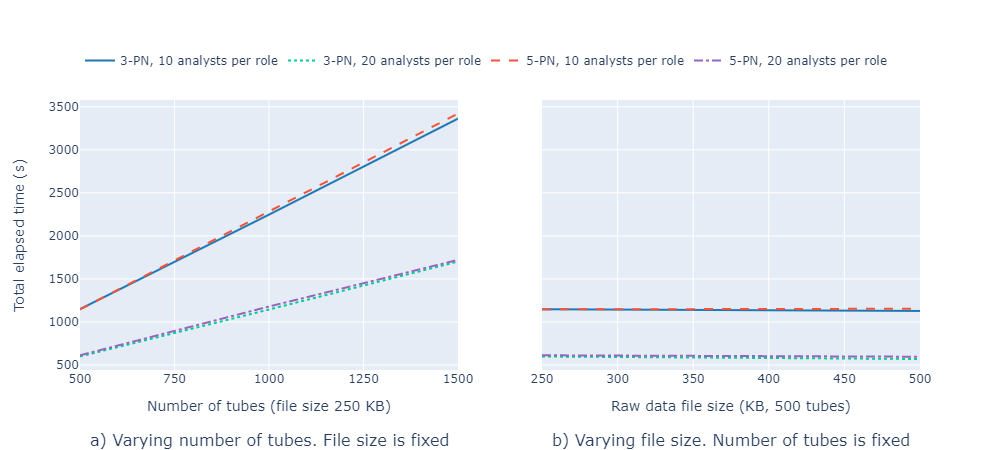
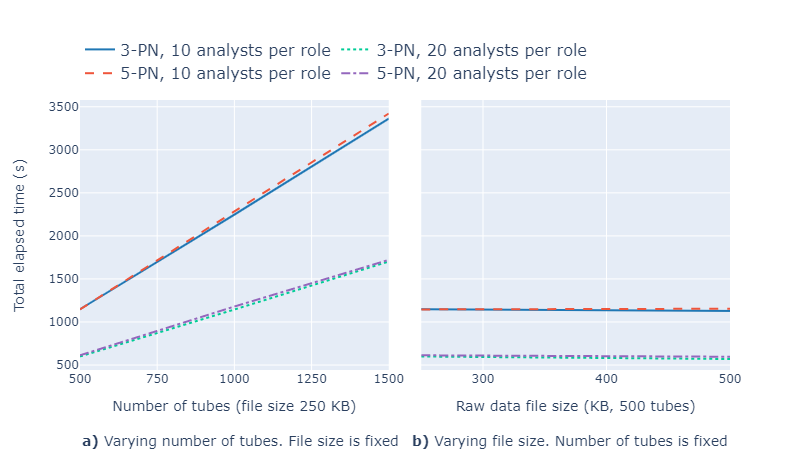
Article revision. Enhanced charts

diff --git a/code/charts3.py b/code/charts3.py
@@ -3,14 +3,15 @@ import plotly.graph_objs as go
 
 NUM_TUBES = [500, 1000, 1500]
 FILE_SIZES = [250, 500] #KB
-FONT = dict(size=16)
+FONT = dict(size=14)
+LEGEND_FONT=dict(size=16)
 BLUE_LINE = dict(color='#1f77b4') #royalblue
 RED_LINE = dict(color='#ef553b', dash='dash')
 GREEN_LINE=dict(color='#00cc96', dash='dot')
 PURPLE_LINE=dict(color='#9467bd', dash='dashdot')
 
 def totalAcquisition(threeOrgsFileSizeFixed, fiveOrgsFileSizeFixed, threeOrgsNumTubesFixed, fiveOrgsNumTubesFixed):
-    fig = make_subplots(rows=1, cols=2, shared_yaxes=True)
+    fig = make_subplots(rows=1, cols=2, shared_yaxes=True, horizontal_spacing= 0.05)
 
     fig.add_trace(go.Scatter(x=NUM_TUBES, y=threeOrgsFileSizeFixed, mode="lines", name="3-PN", line=BLUE_LINE), row=1, col=1)
     fig.add_trace(go.Scatter(x=NUM_TUBES, y=fiveOrgsFileSizeFixed, mode="lines", name="5-PN", line=RED_LINE), row=1, col=1)
@@ -21,12 +22,12 @@ def totalAcquisition(threeOrgsFileSizeFixed, fiveOrgsFileSizeFixed, threeOrgsNum
     fig.add_trace(go.Scatter(x=FILE_SIZES, y=fiveOrgsNumTubesFixed, mode="lines", name="5-PN", line=RED_LINE, showlegend=False), row=1, col=2)
     fig.update_xaxes(title_text="Raw data file size (KB, 500 tubes)", row=1, col=2, range=[250, 500])
 
-    #fig.layout.update(legend=dict(y=1.2, orientation="h"), width=1000)
-    fig.layout.update(legend=dict(y=1.2, orientation="h"), width=1000, annotations=[
+    #fig.layout.update(legend=dict(y=1.15, orientation="h", font=LEGEND_FONT), width=810)
+    fig.layout.update(legend=dict(y=1.15, orientation="h", font=LEGEND_FONT), width=810, annotations=[
         dict(
-            x=0.01, y=-0.3, showarrow=False, text="a) Varying number of tubes. File size is fixed", xref="paper", yref="paper", font=FONT
+            x=0, y=-0.3, showarrow=False, text="<b>a)</b> Varying number of tubes. File size is fixed", xref="paper", yref="paper", font=FONT
         ), dict(
-            x=0.99, y=-0.3, showarrow=False, text="b) Varying file size. Number of tubes is fixed", xref="paper", yref="paper", font=FONT
+            x=1, y=-0.3, showarrow=False, text="<b>b)</b> Varying file size. Number of tubes is fixed", xref="paper", yref="paper", font=FONT
         )
     ])
 
@@ -36,7 +37,7 @@ def totalAcquisition(threeOrgsFileSizeFixed, fiveOrgsFileSizeFixed, threeOrgsNum
     fig.show(config=config)
 
 def avgAutoAnalysis(threeOrgsFileSizeFixed, fiveOrgsFileSizeFixed, threeOrgsNumTubesFixed, fiveOrgsNumTubesFixed):
-    fig = make_subplots(rows=1, cols=2, shared_yaxes=True)
+    fig = make_subplots(rows=1, cols=2, shared_yaxes=True, horizontal_spacing= 0.05)
     
     fig.add_trace(go.Scatter(x=NUM_TUBES, y=threeOrgsFileSizeFixed, mode="lines", name="3-PN", line=BLUE_LINE), row=1, col=1)
     fig.add_trace(go.Scatter(x=NUM_TUBES, y=fiveOrgsFileSizeFixed, mode="lines", name="5-PN", line=RED_LINE), row=1, col=1)
@@ -47,12 +48,12 @@ def avgAutoAnalysis(threeOrgsFileSizeFixed, fiveOrgsFileSizeFixed, threeOrgsNumT
     fig.add_trace(go.Scatter(x=FILE_SIZES, y=fiveOrgsNumTubesFixed, mode="lines", name="5-PN", line=RED_LINE, showlegend=False), row=1, col=2)
     fig.update_xaxes(title_text="Raw data file size (KB, 500 tubes)", row=1, col=2, range=[250, 500])
 
-    #fig.layout.update(legend=dict(y=1.2, orientation="h"), width=1000)
-    fig.layout.update(legend=dict(y=1.2, orientation="h"), width=1000, annotations=[
+    #fig.layout.update(legend=dict(y=1.15, orientation="h", font=LEGEND_FONT), width=810)
+    fig.layout.update(legend=dict(y=1.15, orientation="h", font=LEGEND_FONT), width=810, annotations=[
         dict(
-            x=0.01, y=-0.3, showarrow=False, text="a) Varying number of tubes. File size is fixed", xref="paper", yref="paper", font=FONT
+            x=0, y=-0.3, showarrow=False, text="<b>a)</b> Varying number of tubes. File size is fixed", xref="paper", yref="paper", font=FONT
         ), dict(
-            x=0.99, y=-0.3, showarrow=False, text="b) Varying file size. Number of tubes is fixed", xref="paper", yref="paper", font=FONT
+            x=1, y=-0.3, showarrow=False, text="<b>b)</b> Varying file size. Number of tubes is fixed", xref="paper", yref="paper", font=FONT
         )
     ])
 
@@ -62,7 +63,7 @@ def avgAutoAnalysis(threeOrgsFileSizeFixed, fiveOrgsFileSizeFixed, threeOrgsNumT
     fig.show(config=config)
 
 def totalAutoAnalysis(threeOrgsFileSizeFixed, fiveOrgsFileSizeFixed, threeOrgsNumTubesFixed, fiveOrgsNumTubesFixed):
-    fig = make_subplots(rows=1, cols=2, shared_yaxes=True)
+    fig = make_subplots(rows=1, cols=2, shared_yaxes=True, horizontal_spacing= 0.05)
     
     fig.add_trace(go.Scatter(x=NUM_TUBES, y=threeOrgsFileSizeFixed, mode="lines", name="3-PN", line=BLUE_LINE), row=1, col=1)
     fig.add_trace(go.Scatter(x=NUM_TUBES, y=fiveOrgsFileSizeFixed, mode="lines", name="5-PN", line=RED_LINE), row=1, col=1)
@@ -73,12 +74,12 @@ def totalAutoAnalysis(threeOrgsFileSizeFixed, fiveOrgsFileSizeFixed, threeOrgsNu
     fig.add_trace(go.Scatter(x=FILE_SIZES, y=fiveOrgsNumTubesFixed, mode="lines", name="5-PN", line=RED_LINE, showlegend=False), row=1, col=2)
     fig.update_xaxes(title_text="Raw data file size (KB, 500 tubes)", row=1, col=2, range=[250, 500])
 
-    #fig.layout.update(legend=dict(y=1.2, orientation="h"), width=1000)
-    fig.layout.update(legend=dict(y=1.2, orientation="h"), width=1000, annotations=[
+    #fig.layout.update(legend=dict(y=1.15, orientation="h", font=LEGEND_FONT), width=810)
+    fig.layout.update(legend=dict(y=1.15, orientation="h", font=LEGEND_FONT), width=810, annotations=[
         dict(
-            x=0.01, y=-0.3, showarrow=False, text="a) Varying number of tubes. File size is fixed", xref="paper", yref="paper", font=FONT
+            x=0, y=-0.3, showarrow=False, text="<b>a)</b> Varying number of tubes. File size is fixed", xref="paper", yref="paper", font=FONT
         ), dict(
-            x=0.99, y=-0.3, showarrow=False, text="b) Varying file size. Number of tubes is fixed", xref="paper", yref="paper", font=FONT
+            x=1, y=-0.3, showarrow=False, text="<b>b)</b> Varying file size. Number of tubes is fixed", xref="paper", yref="paper", font=FONT
         )
     ])
 
@@ -88,7 +89,7 @@ def totalAutoAnalysis(threeOrgsFileSizeFixed, fiveOrgsFileSizeFixed, threeOrgsNu
     fig.show(config=config)
 
 def avgAnalysis(threeOrgs10FileSizeFixed, threeOrgs20FileSizeFixed, fiveOrgs10FileSizeFixed, fiveOrgs20FileSizeFixed, threeOrgs10NumTubesFixed, threeOrgs20NumTubesFixed, fiveOrgs10NumTubesFixed, fiveOrgs20NumTubesFixed):
-    fig = make_subplots(rows=1, cols=2, shared_yaxes=True)
+    fig = make_subplots(rows=1, cols=2, shared_yaxes=True, horizontal_spacing= 0.05)
     
     fig.add_trace(go.Scatter(x=NUM_TUBES, y=threeOrgs10FileSizeFixed, mode="lines", name="3-PN, 10 analysts per role", line=BLUE_LINE), row=1, col=1)
     fig.add_trace(go.Scatter(x=NUM_TUBES, y=threeOrgs20FileSizeFixed, mode="lines", name="3-PN, 20 analysts per role", line=GREEN_LINE), row=1, col=1)
@@ -103,12 +104,12 @@ def avgAnalysis(threeOrgs10FileSizeFixed, threeOrgs20FileSizeFixed, fiveOrgs10Fi
     fig.add_trace(go.Scatter(x=FILE_SIZES, y=fiveOrgs20NumTubesFixed, mode="lines", name="5-PN, 20 analysts per role", line=PURPLE_LINE, showlegend=False), row=1, col=2)
     fig.update_xaxes(title_text="Raw data file size (KB, 500 tubes)", row=1, col=2, range=[250, 500])
 
-    #fig.layout.update(legend=dict(y=1.2, orientation="h"), width=1000)
-    fig.layout.update(legend=dict(y=1.2, orientation="h"), width=1000, annotations=[
+    #fig.layout.update(legend=dict(y=1.25, orientation="h", font=LEGEND_FONT), width=810)
+    fig.layout.update(legend=dict(y=1.25, orientation="h", font=LEGEND_FONT), width=810, annotations=[
         dict(
-            x=0.01, y=-0.3, showarrow=False, text="a) Varying number of tubes. File size is fixed", xref="paper", yref="paper", font=FONT
+            x=0, y=-0.3, showarrow=False, text="<b>a)</b> Varying number of tubes. File size is fixed", xref="paper", yref="paper", font=FONT
         ), dict(
-            x=0.99, y=-0.3, showarrow=False, text="b) Varying file size. Number of tubes is fixed", xref="paper", yref="paper", font=FONT
+            x=1, y=-0.3, showarrow=False, text="<b>b)</b> Varying file size. Number of tubes is fixed", xref="paper", yref="paper", font=FONT
         )
     ])
 
@@ -118,7 +119,7 @@ def avgAnalysis(threeOrgs10FileSizeFixed, threeOrgs20FileSizeFixed, fiveOrgs10Fi
     fig.show(config=config)
 
 def totalAnalysis(threeOrgs10FileSizeFixed, threeOrgs20FileSizeFixed, fiveOrgs10FileSizeFixed, fiveOrgs20FileSizeFixed, threeOrgs10NumTubesFixed, threeOrgs20NumTubesFixed, fiveOrgs10NumTubesFixed, fiveOrgs20NumTubesFixed):
-    fig = make_subplots(rows=1, cols=2, shared_yaxes=True)
+    fig = make_subplots(rows=1, cols=2, shared_yaxes=True, horizontal_spacing= 0.05)
     
     fig.add_trace(go.Scatter(x=NUM_TUBES, y=threeOrgs10FileSizeFixed, mode="lines", name="3-PN, 10 analysts per role", line=BLUE_LINE), row=1, col=1)
     fig.add_trace(go.Scatter(x=NUM_TUBES, y=threeOrgs20FileSizeFixed, mode="lines", name="3-PN, 20 analysts per role", line=GREEN_LINE), row=1, col=1)
@@ -133,12 +134,12 @@ def totalAnalysis(threeOrgs10FileSizeFixed, threeOrgs20FileSizeFixed, fiveOrgs10
     fig.add_trace(go.Scatter(x=FILE_SIZES, y=fiveOrgs20NumTubesFixed, mode="lines", name="5-PN, 20 analysts per role", line=PURPLE_LINE, showlegend=False), row=1, col=2)
     fig.update_xaxes(title_text="Raw data file size (KB, 500 tubes)", row=1, col=2, range=[250, 500])
 
-    #fig.layout.update(legend=dict(y=1.2, orientation="h"), width=1000)
-    fig.layout.update(legend=dict(y=1.2, orientation="h"), width=1000, annotations=[
+    #fig.layout.update(legend=dict(y=1.25, orientation="h", font=LEGEND_FONT), width=810)
+    fig.layout.update(legend=dict(y=1.25, orientation="h", font=LEGEND_FONT), width=810, annotations=[
         dict(
-            x=0.01, y=-0.3, showarrow=False, text="a) Varying number of tubes. File size is fixed", xref="paper", yref="paper", font=FONT
+            x=0, y=-0.3, showarrow=False, text="<b>a)</b> Varying number of tubes. File size is fixed", xref="paper", yref="paper", font=FONT
         ), dict(
-            x=0.99, y=-0.3, showarrow=False, text="b) Varying file size. Number of tubes is fixed", xref="paper", yref="paper", font=FONT
+            x=1, y=-0.3, showarrow=False, text="<b>b)</b> Varying file size. Number of tubes is fixed", xref="paper", yref="paper", font=FONT
         )
     ])
 
